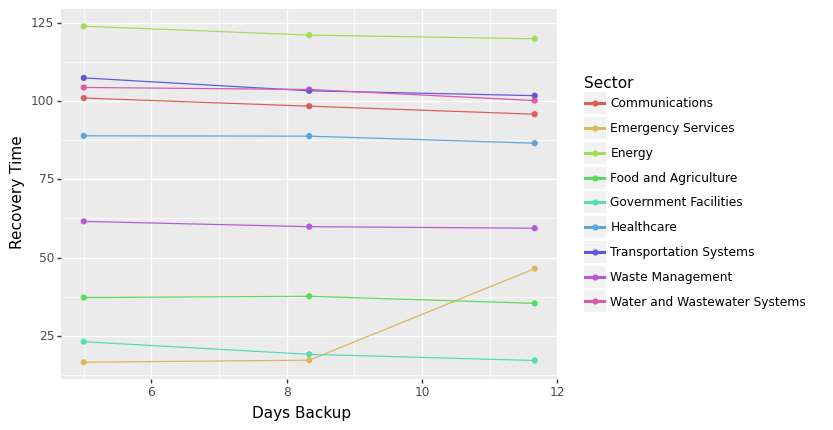
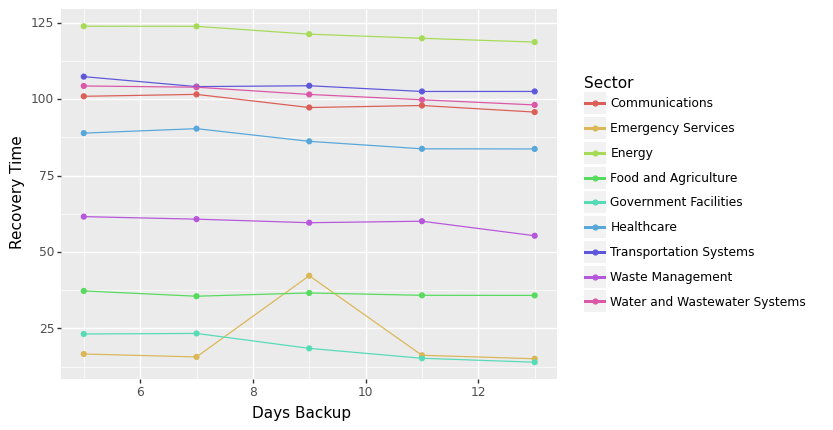
minor edits

diff --git a/sensitivity_GUI.py b/sensitivity_GUI.py
@@ -64,6 +64,7 @@ class CreateToolTip(object):
         if id:
             self.widget.after_cancel(id)
 
+
     def showtip(self, event=None):
         x = y = 0
         x, y, cx, cy = self.widget.bbox("insert")
@@ -112,19 +113,25 @@ class sensitivityAnalysis(object):
             if self.parameter == "repair_factors" or self.parameter == "n0":
               data[self.parameter][sectorInt] = start
             elif self.parameter == "Days Backup":
-              data["daysBackup"] = [start]*(len(sectors)-1)
-              data["backupPercent"] = [90] * (len(sectors)-1)
               depBackups = list(range(9))
               depBackups.pop(sectorInt)
+              days = [start]*(len(sectors)-1)
+              backs = [sectorInt] * (len(sectors)-1)
+              percents = [90] * (len(sectors)-1)
+              data["daysBackup"] = days
+              data["backupPercent"] = percents
               data["depBackup"] = depBackups
-              data["backups"] = [sectorInt] * (len(sectors)-1)
+              data["backups"] = backs
             elif self.parameter == "Efficiency of Backups":
-              data["backupPercent"] = [start]*(len(sectors)-1)
-              data["daysBackup"] = [days_default] * (len(sectors)-1)
               depBackups = list(range(9))
               depBackups.pop(sectorInt)
-              data["depBackup"] = depBackups
-              data["backups"] = [sectorInt] * (len(sectors)-1)
+              days = [days_default] * (len(sectors)-1)
+              backs = [sectorInt] * (len(sectors)-1)
+              percents = [start]*(len(sectors)-1)
+              data["daysBackup"] = data["daysBackup"].append(days)
+              data["backupPercent"] = data["backupPercent"].append(percents)
+              data["depBackup"] = data["depBackup"].append(depBackups)
+              data["backups"] = data["backups"].append(backs)
             name = start
             if start < 1:
               name = round(start * 100, 0)
@@ -141,7 +148,7 @@ class sensitivityAnalysis(object):
         p = ggplot(results, aes(x='Value', y='RT', color = 'Sector')) + xlab(self.parameter) + ylab("Recovery Time") + geom_point() + geom_line()
         file_name = self.parameter + "_" + self.sector
         path_name = dir_path + "\\Sensitivity\\"
-        p.save(filename=file_name, path = path_name)
+        p.save(filename=file_name, path = path_name, verbose = False)
         copyfile(temp_file, fileLoc)
                 
 def main():
@@ -185,6 +192,69 @@ def main():
             dirpath = os.getcwd()
                 
             self.leg = None
+            def hide_rf(checkbox):
+              if checkbox == 1:
+                  rp_min_text.grid()
+                  rp_min.grid()
+                  rp_max_text.grid()
+                  rp_max.grid()
+                  rp_steps_text.grid()
+                  rp_steps.grid()
+              else:
+                  rp_min_text.grid_remove()
+                  rp_min.grid_remove()
+                  rp_max_text.grid_remove()
+                  rp_max.grid_remove()
+                  rp_steps_text.grid_remove()
+                  rp_steps.grid_remove()
+
+            def hide_bd(checkbox):
+              if checkbox == 1:
+                  bd_min_text.grid()
+                  bd_min.grid()
+                  bd_max_text.grid()
+                  bd_max.grid()
+                  bd_steps_text.grid()
+                  bd_steps.grid()
+              else:
+                  rp_min_text.grid_remove()
+                  rp_min.grid_remove()
+                  rp_max_text.grid_remove()
+                  rp_max.grid_remove()
+                  rp_steps_text.grid_remove()
+                  rp_steps.grid_remove()
+
+            def hide_be(checkbox):
+              if checkbox == 1:
+                  be_min_text.grid()
+                  be_min.grid()
+                  be_max_text.grid()
+                  be_max.grid()
+                  be_steps_text.grid()
+                  be_steps.grid()
+              else:
+                  be_min_text.grid_remove()
+                  be_min.grid_remove()
+                  be_max_text.grid_remove()
+                  be_max.grid_remove()
+                  be_steps_text.grid_remove()
+                  be_steps.grid_remove()
+
+            def hide_ie(checkbox):
+              if checkbox == 1:
+                  ie_min_text.grid()
+                  ie_min.grid()
+                  ie_max_text.grid()
+                  ie_max.grid()
+                  ie_steps_text.grid()
+                  ie_steps.grid()
+              else:
+                  ie_min_text.grid_remove()
+                  ie_min.grid_remove()
+                  ie_max_text.grid_remove()
+                  ie_max.grid_remove()
+                  ie_steps_text.grid_remove()
+                  ie_steps.grid_remove()
 
             def run():
               rf = rf_bool.get()
@@ -269,50 +339,51 @@ def main():
             initial_efficiency_steps = tk.StringVar()
 
             tk.Label(self, text='Parameters to Analyze', font=("Arial", 12)).grid(row=1, sticky=tk.W, column = 0)
-            tk.Checkbutton(self, text='Repair Factors', var=rf_bool, font=("Arial", 10)).grid(row=2, sticky=tk.W, column = 0)
-            tk.Checkbutton(self, text='Days Backup', var=backup_days_bool, font=("Arial", 10)).grid(row=4, sticky=tk.W, column = 0)
-            tk.Checkbutton(self, text='Efficiency of Backup', var=backup_efficiency_bool, font=("Arial", 10)).grid(row=6, sticky=tk.W, column = 0)
-            tk.Checkbutton(self, text='Initial Efficiency', var=initial_efficiency_bool, font=("Arial", 10)).grid(row=8, sticky=tk.W, column = 0)
+            rf_check = tk.Checkbutton(self, text='Repair Factors', var=rf_bool, font=("Arial", 10)).grid(row=2, sticky=tk.W, column = 0)
+            db_check = tk.Checkbutton(self, text='Days Backup', var=backup_days_bool, font=("Arial", 10)).grid(row=4, sticky=tk.W, column = 0)
+            de_check = tk.Checkbutton(self, text='Efficiency of Backup', var=backup_efficiency_bool, font=("Arial", 10)).grid(row=6, sticky=tk.W, column = 0)
+            ie_check = tk.Checkbutton(self, text='Initial Efficiency', var=initial_efficiency_bool, font=("Arial", 10)).grid(row=8, sticky=tk.W, column = 0)
+
 
             tk.Label(self, text='Parameter Mins', font=("Arial", 12)).grid(row=1, sticky=tk.W, column = 1)
-            tk.Label(self, text='Repair Factors Min:', font=("Arial", 10)).grid(row=2, sticky=tk.W, column = 1)
-            tk.Label(self, text='Days Backup Min:', font=("Arial", 10)).grid(row=4, sticky=tk.W, column = 1)
-            tk.Label(self, text='Efficiency of Backup Min:', font=("Arial", 10)).grid(row=6, sticky=tk.W, column = 1)
-            tk.Label(self, text='Initial Efficiency Min:', font=("Arial", 10)).grid(row=8, sticky=tk.W, column = 1)
+            rp_min_text = tk.Label(self, text='Repair Factors Min:', font=("Arial", 10)).grid(row=2, sticky=tk.W, column = 1)
+            bd_min_text = tk.Label(self, text='Days Backup Min:', font=("Arial", 10)).grid(row=4, sticky=tk.W, column = 1)
+            be_min_text = tk.Label(self, text='Efficiency of Backup Min:', font=("Arial", 10)).grid(row=6, sticky=tk.W, column = 1)
+            ie_min_text = tk.Label(self, text='Initial Efficiency Min:', font=("Arial", 10)).grid(row=8, sticky=tk.W, column = 1)
 
-            tk.Entry(self, textvariable=rf_range_min, font=("Arial", 10)).grid(row=3, sticky=tk.W, column = 1)
-            tk.Entry(self, textvariable=backup_days_range_min, font=("Arial", 10)).grid(row=5, sticky=tk.W, column = 1)
-            tk.Entry(self, textvariable=backup_efficiency_range_min, font=("Arial", 10)).grid(row=7, sticky=tk.W, column = 1)
-            tk.Entry(self, textvariable=initial_efficiency_range_min, font=("Arial", 10)).grid(row=9, sticky=tk.W, column = 1)
+            rp_min = tk.Entry(self, textvariable=rf_range_min, font=("Arial", 10)).grid(row=3, sticky=tk.W, column = 1)
+            bd_min = tk.Entry(self, textvariable=backup_days_range_min, font=("Arial", 10)).grid(row=5, sticky=tk.W, column = 1)
+            be_min = tk.Entry(self, textvariable=backup_efficiency_range_min, font=("Arial", 10)).grid(row=7, sticky=tk.W, column = 1)
+            ie_min = tk.Entry(self, textvariable=initial_efficiency_range_min, font=("Arial", 10)).grid(row=9, sticky=tk.W, column = 1)
 
             tk.Label(self, text='Parameter Maxes', font=("Arial", 12)).grid(row=1, sticky=tk.W, column = 2)
-            tk.Label(self, text='Repair Factors Max:', font=("Arial", 10)).grid(row=2, sticky=tk.W, column = 2)
-            tk.Label(self, text='Days Backup Max:', font=("Arial", 10)).grid(row=4, sticky=tk.W, column = 2)
-            tk.Label(self, text='Efficiency of Backup Max:', font=("Arial", 10)).grid(row=6, sticky=tk.W, column = 2)
-            tk.Label(self, text='Initial Efficiency Max:', font=("Arial", 10)).grid(row=8, sticky=tk.W, column = 2)
+            rp_max_text = tk.Label(self, text='Repair Factors Max:', font=("Arial", 10)).grid(row=2, sticky=tk.W, column = 2)
+            bd_max_text = tk.Label(self, text='Days Backup Max:', font=("Arial", 10)).grid(row=4, sticky=tk.W, column = 2)
+            be_max_text = tk.Label(self, text='Efficiency of Backup Max:', font=("Arial", 10)).grid(row=6, sticky=tk.W, column = 2)
+            ie_max_text = tk.Label(self, text='Initial Efficiency Max:', font=("Arial", 10)).grid(row=8, sticky=tk.W, column = 2)
 
-            tk.Entry(self, textvariable=rf_range_max, font=("Arial", 10)).grid(row=3, sticky=tk.W, column = 2)
-            tk.Entry(self, textvariable=backup_days_range_max, font=("Arial", 10)).grid(row=5, sticky=tk.W, column = 2)
-            tk.Entry(self, textvariable=backup_efficiency_range_max, font=("Arial", 10)).grid(row=7, sticky=tk.W, column = 2)
-            tk.Entry(self, textvariable=initial_efficiency_range_max, font=("Arial", 10)).grid(row=9, sticky=tk.W, column = 2)
+            rp_max = tk.Entry(self, textvariable=rf_range_max, font=("Arial", 10)).grid(row=3, sticky=tk.W, column = 2)
+            bd_max = tk.Entry(self, textvariable=backup_days_range_max, font=("Arial", 10)).grid(row=5, sticky=tk.W, column = 2)
+            be_max = tk.Entry(self, textvariable=backup_efficiency_range_max, font=("Arial", 10)).grid(row=7, sticky=tk.W, column = 2)
+            ie_max = tk.Entry(self, textvariable=initial_efficiency_range_max, font=("Arial", 10)).grid(row=9, sticky=tk.W, column = 2)
 
             tk.Label(self, text='Parameter Steps', font=("Arial", 12)).grid(row=1, sticky=tk.W, column = 3)
-            tk.Label(self, text='Repair Factors Steps:', font=("Arial", 10)).grid(row=2, sticky=tk.W, column = 3)
-            tk.Label(self, text='Days Backup Steps:', font=("Arial", 10)).grid(row=4, sticky=tk.W, column = 3)
-            tk.Label(self, text='Efficiency of Backup Steps:', font=("Arial", 10)).grid(row=6, sticky=tk.W, column = 3)
-            tk.Label(self, text='Initial Efficiency Steps:', font=("Arial", 10)).grid(row=8, sticky=tk.W, column = 3)
+            rp_steps_text = tk.Label(self, text='Repair Factors Steps:', font=("Arial", 10)).grid(row=2, sticky=tk.W, column = 3)
+            bd_steps_text = tk.Label(self, text='Days Backup Steps:', font=("Arial", 10)).grid(row=4, sticky=tk.W, column = 3)
+            be_steps_text = tk.Label(self, text='Efficiency of Backup Steps:', font=("Arial", 10)).grid(row=6, sticky=tk.W, column = 3)
+            ie_steps_text = tk.Label(self, text='Initial Efficiency Steps:', font=("Arial", 10)).grid(row=8, sticky=tk.W, column = 3)
 
-            tk.Entry(self, textvariable=rf_steps, font=("Arial", 10)).grid(row=3, sticky=tk.W, column = 3)
-            tk.Entry(self, textvariable=backup_days_steps, font=("Arial", 10)).grid(row=5, sticky=tk.W, column = 3)
-            tk.Entry(self, textvariable=backup_efficiency_steps, font=("Arial", 10)).grid(row=7, sticky=tk.W, column = 3)
-            tk.Entry(self, textvariable=initial_efficiency_steps, font=("Arial", 10)).grid(row=9, sticky=tk.W, column = 3)
+            rp_steps = tk.Entry(self, textvariable=rf_steps, font=("Arial", 10)).grid(row=3, sticky=tk.W, column = 3)
+            bd_steps = tk.Entry(self, textvariable=backup_days_steps, font=("Arial", 10)).grid(row=5, sticky=tk.W, column = 3)
+            be_steps = tk.Entry(self, textvariable=backup_efficiency_steps, font=("Arial", 10)).grid(row=7, sticky=tk.W, column = 3)
+            ie_steps = tk.Entry(self, textvariable=initial_efficiency_steps, font=("Arial", 10)).grid(row=9, sticky=tk.W, column = 3)
 
             tk.Label(self, text='Infrastructure Sectors to Analyze:', font=("Arial", 12)).grid(row=1, sticky=tk.W, column = 4)
             for i in range(len(sector_list)):
               tk.Checkbutton(self, text=sector_list[i], var=bool_list[i], font=("Arial", 10)).grid(row=2+i, sticky=tk.W, column = 4)
             #print(self.orders, self.coeffs, self.k)
-            tk.Button(self, text='Run Analysis', bg='#FCB1A0', command= lambda: run(), font=("Arial", 14)).grid(row=18, column=0, sticky=tk.NSEW)
-            tk.Button(self, text='Cancel', bg='#C0C0C0', command=self.destroy, font=("Arial", 14)).grid(row=18, column=1, sticky=tk.NSEW)
+            tk.Button(self, text='Run Analysis', bg='#C7FCA0', command= lambda: run(), font=("Arial", 14)).grid(row=18, column=3, sticky=tk.NSEW)
+            tk.Button(self, text='Cancel', bg='#C0C0C0', command=self.destroy, font=("Arial", 14)).grid(row=18, column=4, sticky=tk.NSEW)
 
     global app
     app = TKinterWindow()

diff --git a/infrastructures_from_file.py b/infrastructures_from_file.py
@@ -209,7 +209,7 @@ def run_file(optimize, orders, coeffs, ks ,fname="infrastructures_inputs.txt"):
                 
     b_values = list(data["backups"])
     backups = []
-    if b_values[0] == "None" or b_values[0] == "none":
+    if b_values[0] == "None" or b_values[0] == "none" or b_values == None:
         backups = None
     elif check_inputs("Backup indexes", b_values, 9, 0, len(list(data["backupPercent"]))):
         for i in range(0, len(b_values)):
@@ -222,7 +222,7 @@ def run_file(optimize, orders, coeffs, ks ,fname="infrastructures_inputs.txt"):
     bp_values = list(data["backupPercent"])
     
     backupPercents = []
-    if bp_values[0] == "None" or bp_values[0] == "none":
+    if bp_values[0] == "None" or bp_values[0] == "none" or bp_values == None:
         backupPercents = None
     elif backups == None:
         tkMessageBox.showerror("Error","If backups all None all other backup related inputs must be none")
@@ -237,7 +237,7 @@ def run_file(optimize, orders, coeffs, ks ,fname="infrastructures_inputs.txt"):
 
     db_values = list(data["daysBackup"])
     daysBackup = []
-    if db_values[0] == "None" or db_values[0] == "none":
+    if db_values[0] == "None" or db_values[0] == "none" or db_values == None:
         daysBackup = None
     elif backups == None:
         tkMessageBox.showerror("Error","If backups all None all other backup related inputs must be none")
@@ -252,7 +252,7 @@ def run_file(optimize, orders, coeffs, ks ,fname="infrastructures_inputs.txt"):
 
     depb_values = list(data["depBackup"])
     depBackup = [] 
-    if depb_values[0] == "None" or depb_values[0] == "none":
+    if depb_values[0] == "None" or depb_values[0] == "none" or depb_values == None:
         depBackup = None
     elif backups == None:
         tkMessageBox.showerror("Error","If backups all None all other backup related inputs must be none")

diff --git a/infrastructures_results.py b/infrastructures_results.py
@@ -64,6 +64,7 @@ def results(nRun, paramTypes, paramIndexes, param_vals, runName, contam, maxTime
             if not os.path.exists("Results"):
                 os.makedirs("Results")
             plt.savefig("Images/" + runName + " " + sector_name)
+            plt.close()
             #print out distribution statistics as desired
             print("")
             f = open("Results/" + runName + " " + sector_name + ".txt", "w")
